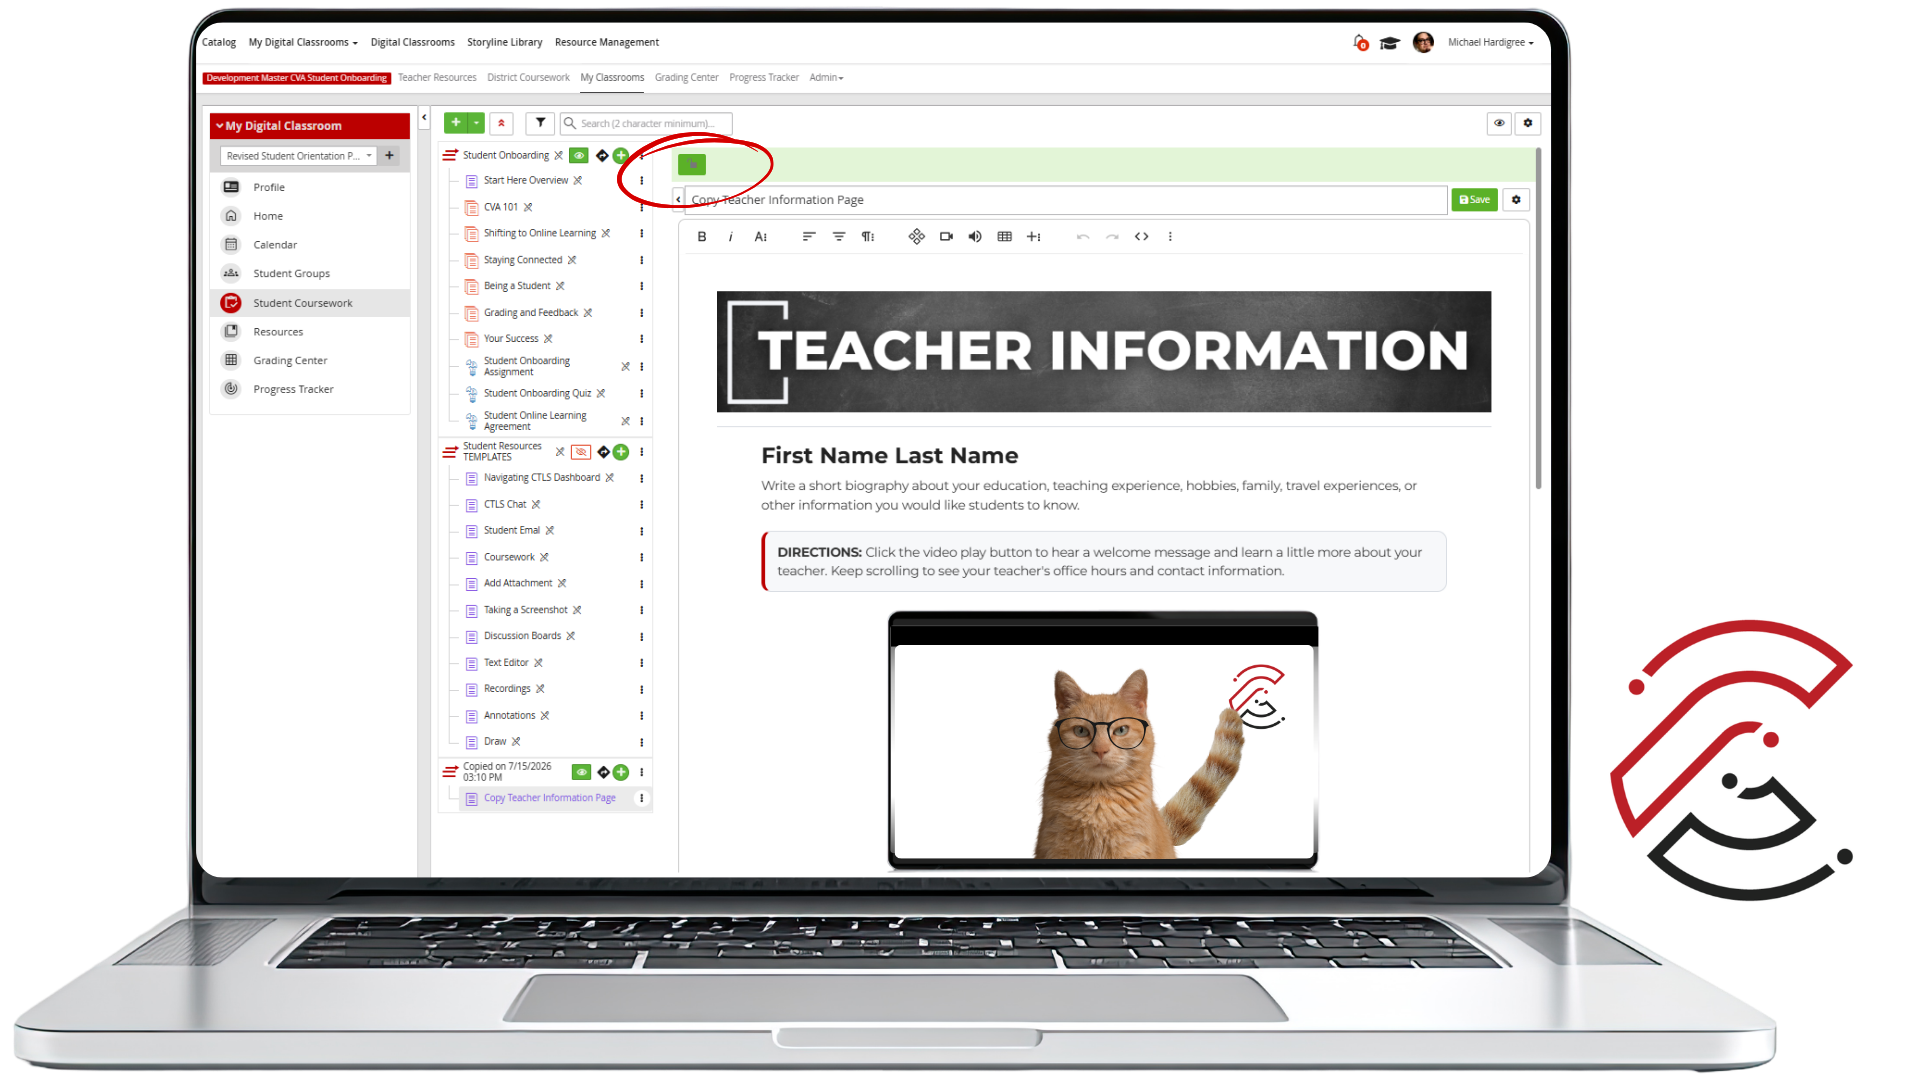
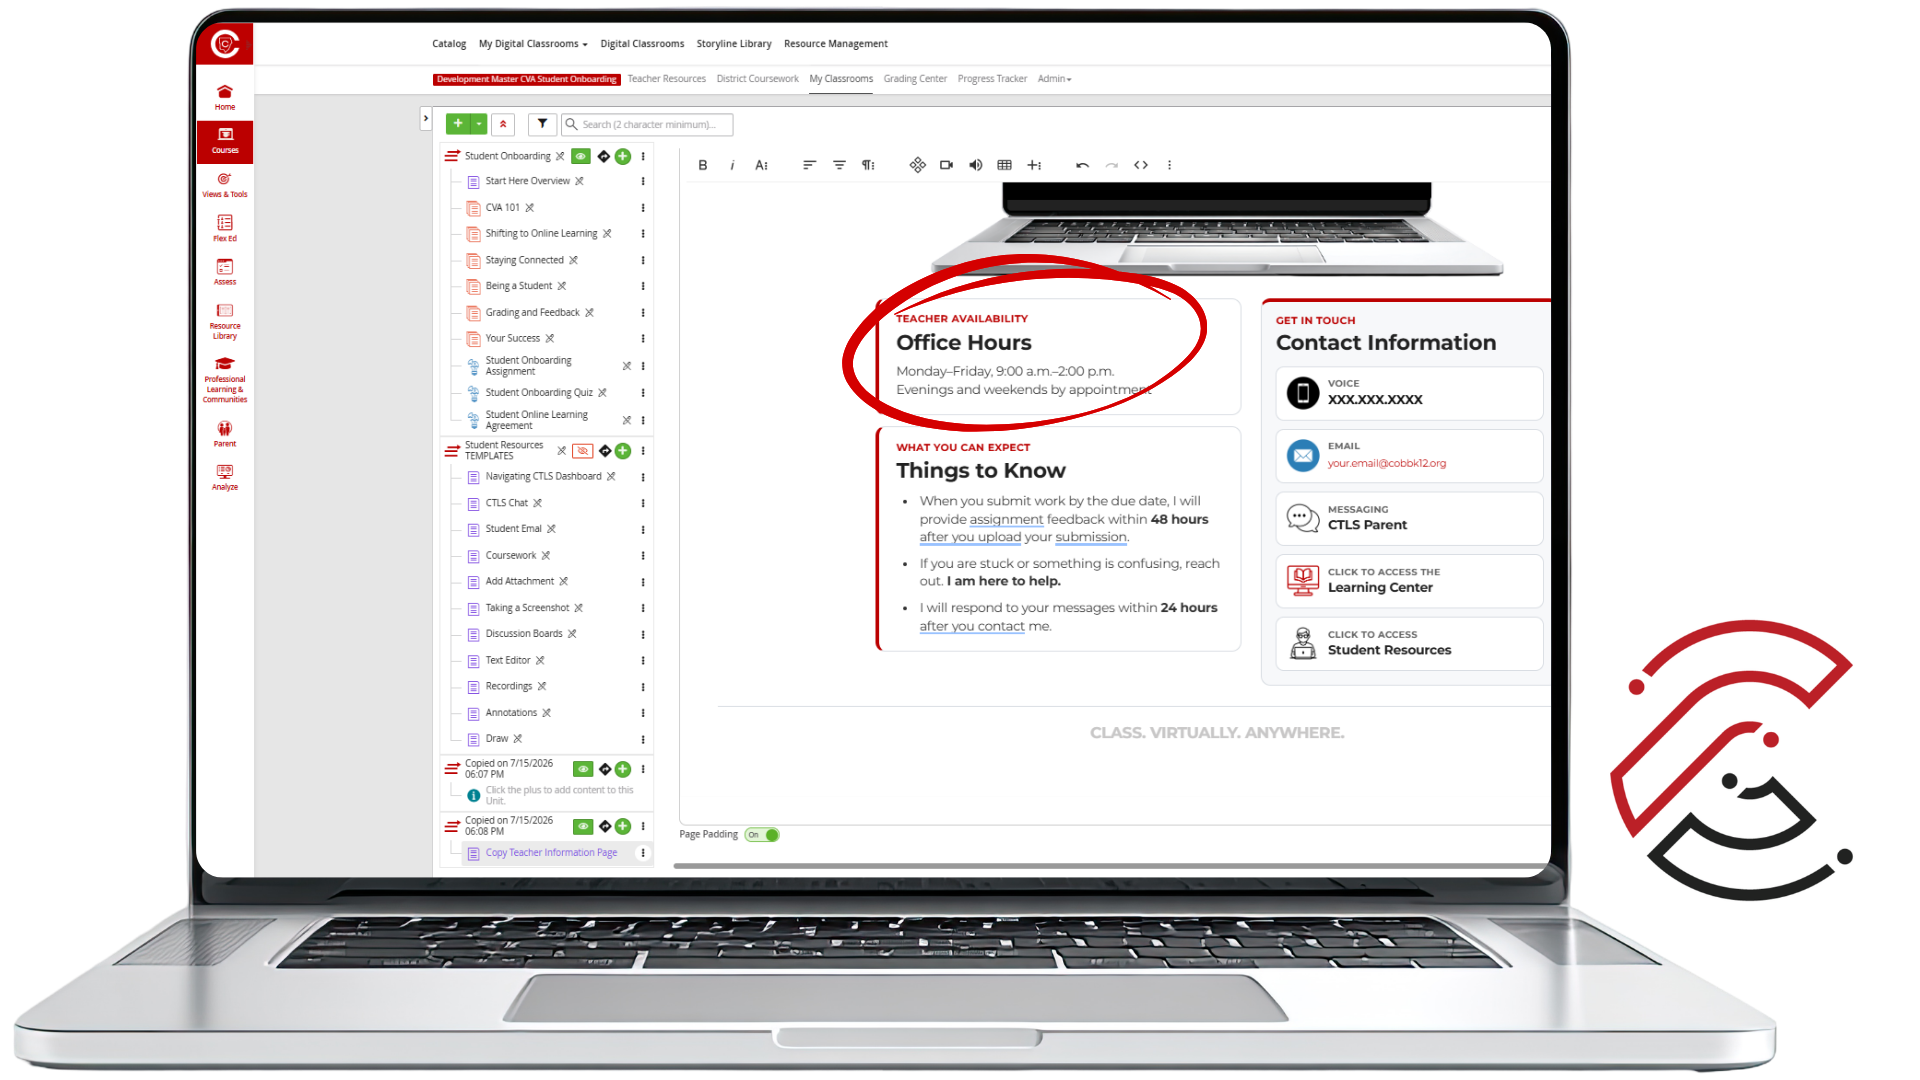
Update image for Teacher Information Page to enhance visual quality

Changed region(s): [[0.0938, 0.0, 0.8125, 0.825], [0.7188, 0.0306, 0.7812, 0.0611]]

diff --git a/rapport-and-relationships/CVA News You Can Use Splash Page.html b/rapport-and-relationships/CVA News You Can Use Splash Page.html
@@ -1,0 +1,187 @@
+<!-- CVA NEWS YOU CAN USE -->
+<div style="width:100%;max-width:1400px;margin:0 auto;font-family:Montserrat,Arial,sans-serif;color:#222222;box-sizing:border-box;">
+
+	<!-- HERO -->
+	<div style="display:flex;flex-wrap:wrap;align-items:stretch;width:100%;background:#f7f8fa;border:1px solid #d9dde3;border-top:7px solid #bb0000;border-radius:16px;overflow:hidden;box-sizing:border-box;">
+
+		<!-- HERO TEXT -->
+		<div style="flex:1 1 540px;min-width:0;padding:42px 38px;display:flex;flex-direction:column;justify-content:center;box-sizing:border-box;">
+
+			<div style="display:flex;align-items:center;gap:12px;margin:0 0 18px 0;">
+
+				<div aria-hidden="true" style="flex:0 0 45px;width:45px;height:4px;background:#bb0000;border-radius:10px;"></div>
+
+				<div style="font-size:18px;line-height:1.3;letter-spacing:.12em;text-transform:uppercase;color:#bb0000;font-weight:900;">
+					CVA Student Support
+				</div>
+			</div>
+
+			<h1 style="font-family:Oswald,'Arial Narrow',Arial,sans-serif;font-size:clamp(42px,6vw,60px);line-height:1;text-transform:uppercase;color:#222222;font-weight:900;margin:0 0 18px 0;">
+				CVA News You Can Use
+			</h1>
+
+			<p style="font-size:18px;line-height:1.55;color:#444444;margin:0 0 22px 0;max-width:670px;">
+				Find important announcements, student support tools, success resources, and opportunities to connect with CVA staff.
+			</p>
+
+			<div style="display:flex;align-items:center;gap:10px;font-size:18px;line-height:1.5;color:#333333;font-weight:800;">
+
+				<img
+					src="https://upload.educationincites.com/gacobb/learn/resources/138034315160726620.png"
+					alt=""
+					style="display:block;flex:0 0 28px;width:28px;height:28px;object-fit:contain;border:0;"
+				>
+
+				<span>Select a resource below to learn more.</span>
+			</div>
+		</div>
+	</div>
+
+	<!-- RESOURCE CARDS: 2 × 2 ON LARGER SCREENS -->
+	<div style="display:flex;flex-wrap:wrap;gap:18px;align-items:stretch;width:100%;margin-top:18px;box-sizing:border-box;">
+
+		<!-- STUDENT RESOURCES HUB -->
+		<a
+			href="https://www.cobbk12.org/cobbvirtualacademy/student-resources-hub"
+			target="_blank"
+			rel="noopener noreferrer"
+			aria-label="Open the Student Resources Hub"
+			style="display:flex;flex-direction:column;flex:1 1 420px;min-width:0;background:#ffffff;border:1px solid #d9dde3;border-top:6px solid #bb0000;border-radius:14px;padding:26px;text-decoration:none;color:#222222;box-sizing:border-box;"
+		>
+			<div style="width:76px;height:76px;display:flex;align-items:center;justify-content:center;background:#f7f8fa;border:1px solid #d9dde3;border-radius:12px;margin:0 0 18px 0;padding:10px;box-sizing:border-box;">
+
+				<img
+					src="https://upload.educationincites.com/gacobb/learn/resources/187224015160726413.png"
+					alt="Red outline icon of a student backpack."
+					style="display:block;width:100%;height:100%;object-fit:contain;border:0;"
+				>
+			</div>
+
+			<div style="font-size:18px;line-height:1.3;letter-spacing:.1em;text-transform:uppercase;color:#bb0000;font-weight:900;margin:0 0 7px 0;">
+				Student Support
+			</div>
+
+			<h3 style="font-family:Oswald,'Arial Narrow',Arial,sans-serif;font-size:27px;line-height:1.15;color:#222222;font-weight:900;margin:0 0 10px 0;">
+				Student Resources Hub
+			</h3>
+
+			<p style="font-size:18px;line-height:1.55;color:#555555;margin:0 0 22px 0;">
+				Access how-to guides, technology help, and useful CVA tools.
+			</p>
+
+			<div style="margin-top:auto;padding-top:4px;color:#bb0000;font-size:18px;line-height:1.4;font-weight:900;">
+				Explore the hub&nbsp;&nbsp;&rsaquo;
+			</div>
+		</a>
+
+		<!-- STUDENT SUCCESS GUIDE -->
+		<a
+			href="https://www.cobbk12.org/cobbvirtualacademy/student-success-handbook"
+			target="_blank"
+			rel="noopener noreferrer"
+			aria-label="Open the Student Success Guide"
+			style="display:flex;flex-direction:column;flex:1 1 420px;min-width:0;background:#ffffff;border:1px solid #d9dde3;border-top:6px solid #bb0000;border-radius:14px;padding:26px;text-decoration:none;color:#222222;box-sizing:border-box;"
+		>
+			<div style="width:76px;height:76px;display:flex;align-items:center;justify-content:center;background:#f7f8fa;border:1px solid #d9dde3;border-radius:12px;margin:0 0 18px 0;padding:10px;box-sizing:border-box;">
+
+				<img
+					src="https://upload.educationincites.com/gacobb/learn/resources/168273715160726810.png"
+					alt="Red outline icon of a rocket launching."
+					style="display:block;width:100%;height:100%;object-fit:contain;border:0;"
+				>
+			</div>
+
+			<div style="font-size:18px;line-height:1.3;letter-spacing:.1em;text-transform:uppercase;color:#bb0000;font-weight:900;margin:0 0 7px 0;">
+				Getting Started
+			</div>
+
+			<h3 style="font-family:Oswald,'Arial Narrow',Arial,sans-serif;font-size:27px;line-height:1.15;color:#222222;font-weight:900;margin:0 0 10px 0;">
+				Student Success Handbook
+			</h3>
+
+			<p style="font-size:18px;line-height:1.55;color:#555555;margin:0 0 22px 0;">
+				Learn how to stay organized, manage your time, communicate, and succeed in an online class.
+			</p>
+
+			<div style="margin-top:auto;padding-top:4px;color:#bb0000;font-size:18px;line-height:1.4;font-weight:900;">
+				View the guide&nbsp;&nbsp;&rsaquo;
+			</div>
+		</a>
+
+		<!-- CVA LEARNING CENTERS -->
+		<a
+			href="https://www.cobbk12.org/cobbvirtualacademy/cva-learning-centers"
+			target="_blank"
+			rel="noopener noreferrer"
+			aria-label="Open information about CVA Learning Centers"
+			style="display:flex;flex-direction:column;flex:1 1 420px;min-width:0;background:#ffffff;border:1px solid #d9dde3;border-top:6px solid #bb0000;border-radius:14px;padding:26px;text-decoration:none;color:#222222;box-sizing:border-box;"
+		>
+			<div style="width:76px;height:76px;display:flex;align-items:center;justify-content:center;background:#f7f8fa;border:1px solid #d9dde3;border-radius:12px;margin:0 0 18px 0;padding:10px;box-sizing:border-box;">
+
+				<img
+					src="https://upload.educationincites.com/gacobb/learn/resources/189364115160726692.png"
+					alt="Red outline icon of an open book displayed on a computer monitor."
+					style="display:block;width:100%;height:100%;object-fit:contain;border:0;"
+				>
+			</div>
+
+			<div style="font-size:18px;line-height:1.3;letter-spacing:.1em;text-transform:uppercase;color:#bb0000;font-weight:900;margin:0 0 7px 0;">
+				Live Academic Support
+			</div>
+
+			<h3 style="font-family:Oswald,'Arial Narrow',Arial,sans-serif;font-size:27px;line-height:1.15;color:#222222;font-weight:900;margin:0 0 10px 0;">
+				CVA Learning Centers
+			</h3>
+
+			<p style="font-size:18px;line-height:1.55;color:#555555;margin:0 0 22px 0;">
+				Connect with CVA teachers and receive help with coursework and planning.
+			</p>
+
+			<div style="margin-top:auto;padding-top:4px;color:#bb0000;font-size:18px;line-height:1.4;font-weight:900;">
+				Find support&nbsp;&nbsp;&rsaquo;
+			</div>
+		</a>
+
+		<!-- CVA INFORMATION -->
+		<a
+			href="https://www.cobbk12.org/cobbvirtualacademy/cva-news-you-can-use"
+			target="_blank"
+			rel="noopener noreferrer"
+			aria-label="Open the CVA News You Can Use Hub"
+			style="display:flex;flex-direction:column;flex:1 1 420px;min-width:0;background:#ffffff;border:1px solid #d9dde3;border-top:6px solid #bb0000;border-radius:14px;padding:26px;text-decoration:none;color:#222222;box-sizing:border-box;"
+		>
+			<div style="width:76px;height:76px;display:flex;align-items:center;justify-content:center;background:#f7f8fa;border:1px solid #d9dde3;border-radius:12px;margin:0 0 18px 0;padding:10px;box-sizing:border-box;">
+
+				<img
+					src="https://upload.educationincites.com/gacobb/learn/resources/158064115160726414.png"
+					alt="Red outline icon of a megaphone announcing news."
+					style="display:block;width:100%;height:100%;object-fit:contain;border:0;"
+				>
+			</div>
+
+			<div style="font-size:18px;line-height:1.3;letter-spacing:.1em;text-transform:uppercase;color:#bb0000;font-weight:900;margin:0 0 7px 0;">
+				Announcements and Updates
+			</div>
+
+			<h3 style="font-family:Oswald,'Arial Narrow',Arial,sans-serif;font-size:27px;line-height:1.15;color:#222222;font-weight:900;margin:0 0 10px 0;">
+				Need to Know Information
+			</h3>
+
+			<p style="font-size:18px;line-height:1.55;color:#555555;margin:0 0 22px 0;">
+				Review current announcements, reminders, events, and other important information.
+			</p>
+
+			<div style="margin-top:auto;padding-top:4px;color:#bb0000;font-size:18px;line-height:1.4;font-weight:900;">
+				Read the latest information&nbsp;&nbsp;&rsaquo;
+			</div>
+		</a>
+	</div>
+
+	<!-- FOOTER -->
+	<div style="margin-top:28px;padding:17px 20px;border-top:1px solid #d9dde3;text-align:center;box-sizing:border-box;">
+
+		<div style="font-size:18px;line-height:1.4;letter-spacing:.14em;text-transform:uppercase;color:#888888;font-weight:900;">
+			Class. Virtually. Anywhere.
+		</div>
+	</div>
+</div>

diff --git a/rapport-and-relationships/Untitled-1.html b/rapport-and-relationships/Untitled-1.html
@@ -1,0 +1,164 @@
+<!-- CVA NEWS YOU CAN USE -->
+<div style="width:100%;max-width:1400px;margin:0 auto;font-family:Montserrat,Arial,sans-serif;color:#222222;box-sizing:border-box;">
+
+	<!-- HERO -->
+	<div style="display:flex;flex-wrap:wrap;align-items:stretch;width:100%;background:#f7f8fa;border:1px solid #d9dde3;border-top:7px solid #bb0000;border-radius:16px;overflow:hidden;box-sizing:border-box;">
+
+		<!-- HERO TEXT -->
+		<div style="flex:1 1 540px;min-width:280px;padding:42px 38px;display:flex;flex-direction:column;justify-content:center;box-sizing:border-box;">
+
+			<div style="display:flex;align-items:center;gap:12px;margin:0 0 18px 0;">
+				<div aria-hidden="true" style="flex:0 0 45px;width:45px;height:4px;background:#bb0000;border-radius:10px;"></div>
+
+				<div style="font-size:13px;line-height:1.2;letter-spacing:.12em;text-transform:uppercase;color:#bb0000;font-weight:900;">
+					CVA Resource Hub
+				</div>
+			</div>
+
+			<h1 style="font-family:Oswald,'Arial Narrow',Arial,sans-serif;font-size:clamp(42px,6vw,60px);line-height:1;text-transform:uppercase;color:#222222;font-weight:900;margin:0 0 18px 0;">
+				CVA News
+				<span style="display:block;color:#bb0000;">You Can Use</span>
+			</h1>
+
+			<p style="font-size:18px;line-height:1.55;color:#444444;margin:0 0 22px 0;max-width:670px;">
+				Find important announcements, student support tools, success resources, and opportunities to connect with CVA staff.
+			</p>
+
+			<div style="display:flex;align-items:center;gap:10px;">
+
+				<div aria-hidden="true" style="display:flex;align-items:center;justify-content:center;flex:0 0 30px;width:30px;height:30px;border-radius:50%;background:#bb0000;color:#ffffff;text-align:center;font-size:20px;line-height:1;font-weight:900;">
+					&darr;
+				</div>
+
+				<div style="font-size:15px;line-height:1.4;color:#333333;font-weight:800;">
+					Select a resource below to learn more.
+				</div>
+			</div>
+		</div>
+
+		<!-- HERO IMAGE -->
+		<div style="flex:1 1 390px;min-width:280px;background:#e6e8eb;box-sizing:border-box;">
+			<img src="YOUR-HERO-IMAGE-URL" alt="CVA student working on a laptop in a library." style="display:block;width:100%;height:100%;min-height:330px;object-fit:cover;border:0;">
+		</div>
+	</div>
+
+	<!-- RESOURCE SECTION HEADING -->
+	<div style="margin:30px 0 18px 0;">
+
+		<div style="font-size:12px;line-height:1.2;letter-spacing:.12em;text-transform:uppercase;color:#bb0000;font-weight:900;margin:0 0 7px 0;">
+			Featured Resources
+		</div>
+
+		<h2 style="font-family:Oswald,'Arial Narrow',Arial,sans-serif;font-size:32px;line-height:1.2;color:#222222;font-weight:900;margin:0;">
+			Where would you like to go?
+		</h2>
+	</div>
+
+	<!-- RESOURCE CARDS: 2 × 2 ON LARGER SCREENS -->
+	<div style="display:flex;flex-wrap:wrap;gap:18px;align-items:stretch;width:100%;box-sizing:border-box;">
+
+		<!-- STUDENT RESOURCES HUB -->
+		<a href="STUDENT-RESOURCES-HUB-URL" target="_blank" rel="noopener noreferrer" aria-label="Open the Student Resources Hub" style="display:flex;flex-direction:column;flex:1 1 calc(50% - 9px);min-width:320px;background:#ffffff;border:1px solid #d9dde3;border-top:6px solid #bb0000;border-radius:14px;padding:26px;text-decoration:none;color:#222222;box-sizing:border-box;">
+			<!-- ICON PLACEHOLDER -->
+			<div style="width:76px;height:76px;display:flex;align-items:center;justify-content:center;background:#f7f8fa;border:1px solid #d9dde3;border-radius:12px;margin:0 0 18px 0;padding:10px;box-sizing:border-box;">
+				<img src="STUDENT-RESOURCES-ICON-URL" alt="" style="display:block;width:100%;height:100%;object-fit:contain;border:0;">
+			</div>
+
+			<div style="font-size:11px;line-height:1.2;letter-spacing:.1em;text-transform:uppercase;color:#bb0000;font-weight:900;margin:0 0 7px 0;">
+				Student Support
+			</div>
+
+			<h3 style="font-family:Oswald,'Arial Narrow',Arial,sans-serif;font-size:27px;line-height:1.15;color:#222222;font-weight:900;margin:0 0 10px 0;">
+				Student Resources Hub
+			</h3>
+
+			<p style="font-size:15px;line-height:1.55;color:#555555;margin:0 0 22px 0;">
+				Access student directions, technology help, academic support, and useful CVA tools.
+			</p>
+
+			<div style="margin-top:auto;padding-top:4px;color:#bb0000;font-size:14px;line-height:1.3;font-weight:900;">
+				Explore the hub&nbsp;&nbsp;&rsaquo;
+			</div>
+		</a>
+
+		<!-- STUDENT SUCCESS GUIDE -->
+		<a href="STUDENT-SUCCESS-GUIDE-URL" target="_blank" rel="noopener noreferrer" aria-label="Open the Student Success Guide" style="display:flex;flex-direction:column;flex:1 1 calc(50% - 9px);min-width:320px;background:#ffffff;border:1px solid #d9dde3;border-top:6px solid #bb0000;border-radius:14px;padding:26px;text-decoration:none;color:#222222;box-sizing:border-box;">
+			<!-- ICON PLACEHOLDER -->
+			<div style="width:76px;height:76px;display:flex;align-items:center;justify-content:center;background:#f7f8fa;border:1px solid #d9dde3;border-radius:12px;margin:0 0 18px 0;padding:10px;box-sizing:border-box;">
+				<img src="STUDENT-SUCCESS-ICON-URL" alt="" style="display:block;width:100%;height:100%;object-fit:contain;border:0;">
+			</div>
+
+			<div style="font-size:11px;line-height:1.2;letter-spacing:.1em;text-transform:uppercase;color:#bb0000;font-weight:900;margin:0 0 7px 0;">
+				Getting Started
+			</div>
+
+			<h3 style="font-family:Oswald,'Arial Narrow',Arial,sans-serif;font-size:27px;line-height:1.15;color:#222222;font-weight:900;margin:0 0 10px 0;">
+				Student Success Guide
+			</h3>
+
+			<p style="font-size:15px;line-height:1.55;color:#555555;margin:0 0 22px 0;">
+				Learn how to stay organized, manage your time, communicate, and succeed in an online course.
+			</p>
+
+			<div style="margin-top:auto;padding-top:4px;color:#bb0000;font-size:14px;line-height:1.3;font-weight:900;">
+				View the guide&nbsp;&nbsp;&rsaquo;
+			</div>
+		</a>
+
+		<!-- CVA LEARNING CENTERS -->
+		<a href="LEARNING-CENTERS-URL" target="_blank" rel="noopener noreferrer" aria-label="Open information about CVA Learning Centers" style="display:flex;flex-direction:column;flex:1 1 calc(50% - 9px);min-width:320px;background:#ffffff;border:1px solid #d9dde3;border-top:6px solid #bb0000;border-radius:14px;padding:26px;text-decoration:none;color:#222222;box-sizing:border-box;">
+			<!-- ICON PLACEHOLDER -->
+			<div style="width:76px;height:76px;display:flex;align-items:center;justify-content:center;background:#f7f8fa;border:1px solid #d9dde3;border-radius:12px;margin:0 0 18px 0;padding:10px;box-sizing:border-box;">
+				<img src="LEARNING-CENTERS-ICON-URL" alt="" style="display:block;width:100%;height:100%;object-fit:contain;border:0;">
+			</div>
+
+			<div style="font-size:11px;line-height:1.2;letter-spacing:.1em;text-transform:uppercase;color:#bb0000;font-weight:900;margin:0 0 7px 0;">
+				Live Academic Support
+			</div>
+
+			<h3 style="font-family:Oswald,'Arial Narrow',Arial,sans-serif;font-size:27px;line-height:1.15;color:#222222;font-weight:900;margin:0 0 10px 0;">
+				CVA Learning Centers
+			</h3>
+
+			<p style="font-size:15px;line-height:1.55;color:#555555;margin:0 0 22px 0;">
+				Connect with CVA staff and receive help with coursework, planning, and academic questions.
+			</p>
+
+			<div style="margin-top:auto;padding-top:4px;color:#bb0000;font-size:14px;line-height:1.3;font-weight:900;">
+				Find support&nbsp;&nbsp;&rsaquo;
+			</div>
+		</a>
+
+		<!-- CVA NEWS YOU CAN USE HUB -->
+		<a href="CVA-NEWS-YOU-CAN-USE-HUB-URL" target="_blank" rel="noopener noreferrer" aria-label="Open the CVA News You Can Use Hub" style="display:flex;flex-direction:column;flex:1 1 calc(50% - 9px);min-width:320px;background:#ffffff;border:1px solid #d9dde3;border-top:6px solid #bb0000;border-radius:14px;padding:26px;text-decoration:none;color:#222222;box-sizing:border-box;">
+			<!-- ICON PLACEHOLDER -->
+			<div style="width:76px;height:76px;display:flex;align-items:center;justify-content:center;background:#f7f8fa;border:1px solid #d9dde3;border-radius:12px;margin:0 0 18px 0;padding:10px;box-sizing:border-box;">
+				<img src="CVA-NEWS-ICON-URL" alt="" style="display:block;width:100%;height:100%;object-fit:contain;border:0;">
+			</div>
+
+			<div style="font-size:11px;line-height:1.2;letter-spacing:.1em;text-transform:uppercase;color:#bb0000;font-weight:900;margin:0 0 7px 0;">
+				Announcements and Updates
+			</div>
+
+			<h3 style="font-family:Oswald,'Arial Narrow',Arial,sans-serif;font-size:27px;line-height:1.15;color:#222222;font-weight:900;margin:0 0 10px 0;">
+				CVA News You Can Use Hub
+			</h3>
+
+			<p style="font-size:15px;line-height:1.55;color:#555555;margin:0 0 22px 0;">
+				Review current announcements, reminders, deadlines, events, and other important information.
+			</p>
+
+			<div style="margin-top:auto;padding-top:4px;color:#bb0000;font-size:14px;line-height:1.3;font-weight:900;">
+				Read the latest news&nbsp;&nbsp;&rsaquo;
+			</div>
+		</a>
+	</div>
+
+	<!-- FOOTER -->
+	<div style="margin-top:28px;padding:17px 20px;border-top:1px solid #d9dde3;text-align:center;box-sizing:border-box;">
+		<div style="font-size:13px;line-height:1.3;letter-spacing:.14em;text-transform:uppercase;color:#888888;font-weight:900;">
+			Class. Virtually. Anywhere.
+		</div>
+	</div>
+</div>
+<br>